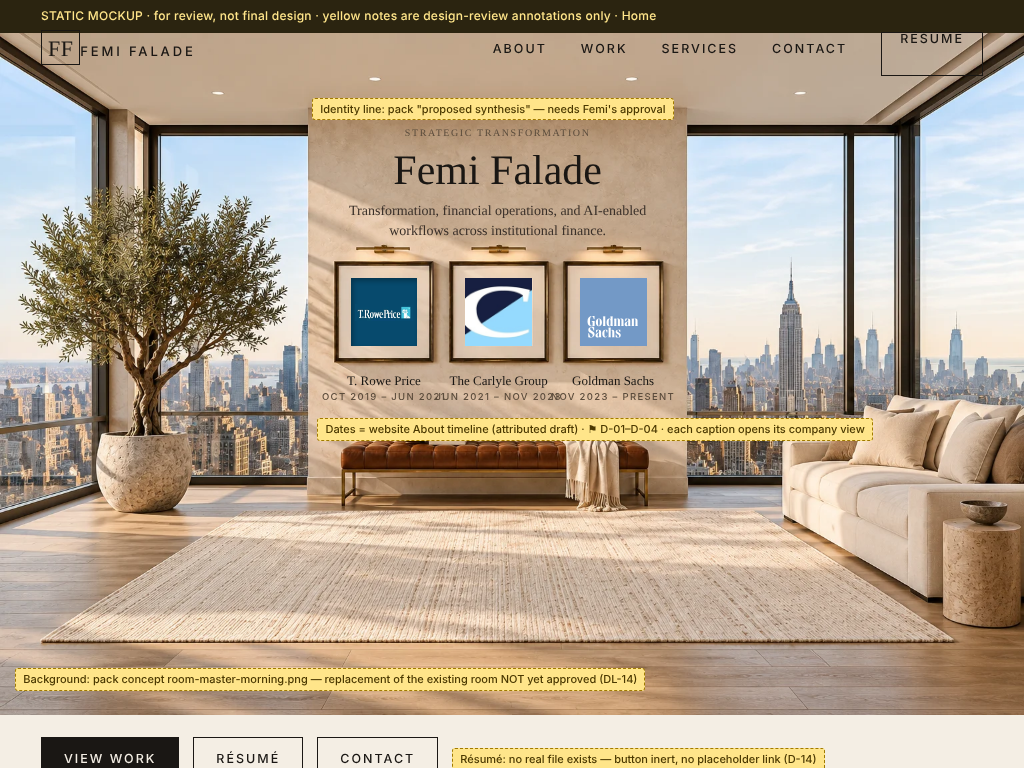
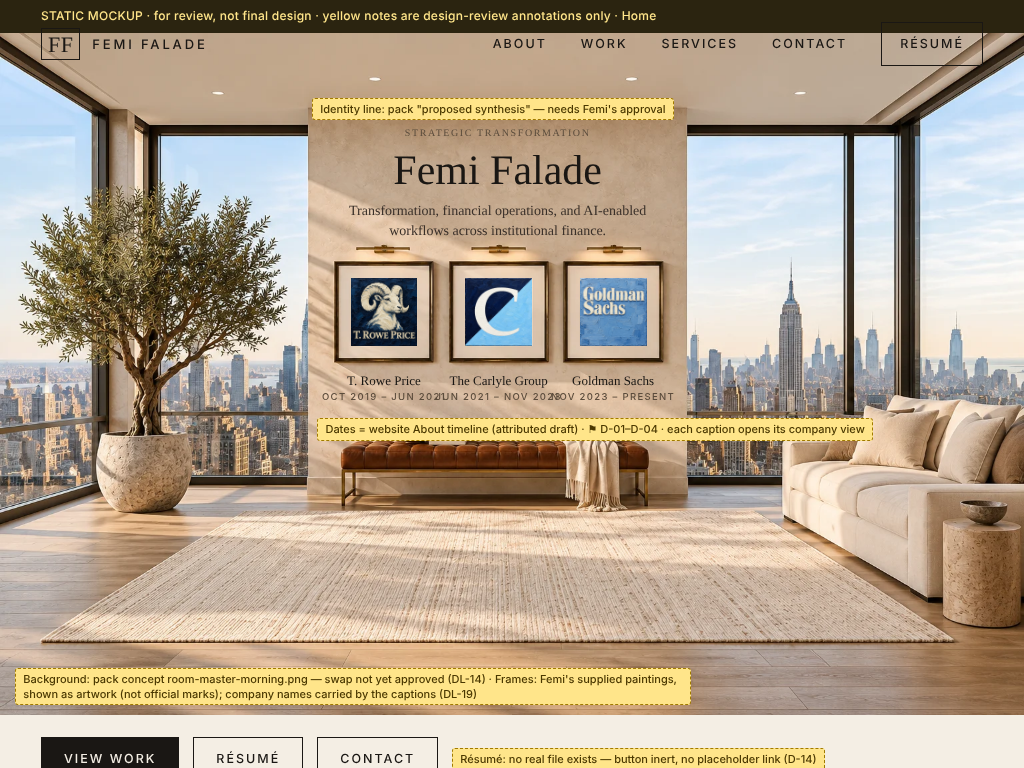
Mockups: supplied paintings in the Home frames; fix nav and overflow
The three paintings Femi supplied now hang in the Home frames as
artwork, with company names and dates in the HTML captions. An
official-marks comparison page is kept. Also fixes a nav regression
(brand and Résumé button lost their flex layout) and a 1024px
horizontal scroll caused by an unwrapped review pin. Re-checked all
pages at 390/1024/1440: no overflow, no broken images, standalone
targets at least 44px.

Claude-Session: https://claude.ai/code/session_01Q2iX8U4MkKUcYxVfpZrcab

diff --git a/docs/mockups/home.html b/docs/mockups/home.html
@@ -9,10 +9,10 @@
 </header>
 <main>
   <section class="home-desktop" aria-label="Gallery room">
-    <div style="position:relative"><div class="scene"><img class="room" src="img/room-master-morning.webp" alt="A quiet gallery room in New York: three framed company artworks on a limestone wall above a leather bench, an olive tree and a sofa by floor-to-ceiling windows."><div class="mat mat--trowe" style="left:34.245%;top:35.938%;width:6.445%;height:9.961%"><img src="img/trowe.webp" alt=""></div><div class="mat mat--carlyle" style="left:45.443%;top:35.938%;width:6.510%;height:9.961%"><img src="img/carlyle.webp" alt=""></div><div class="mat mat--gs" style="left:56.641%;top:35.938%;width:6.510%;height:9.961%"><img src="img/gs.svg" alt=""></div><div class="walltext"><p class="eyebrow">Strategic Transformation</p><h1>Femi Falade</h1><p>Transformation, financial operations, and AI-enabled workflows across institutional finance.</p></div><a class="caption" href="company-goldman-sachs.html" style="left:30.990%"><b>T. Rowe Price</b><span>Oct 2019 – Jun 2021</span></a><a class="caption" href="company-goldman-sachs.html" style="left:42.188%"><b>The Carlyle Group</b><span>Jun 2021 – Nov 2023</span></a><a class="caption" href="company-goldman-sachs.html" style="left:53.353%"><b>Goldman Sachs</b><span>Nov 2023 – Present</span></a></div>
+    <div style="position:relative"><div class="scene"><img class="room" src="img/room-master-morning.webp" alt="A quiet gallery room in New York: three framed company artworks on a limestone wall above a leather bench, an olive tree and a sofa by floor-to-ceiling windows."><div class="mat mat--art" style="left:34.245%;top:35.938%;width:6.445%;height:9.961%"><img src="img/trowe-painting.webp" alt=""></div><div class="mat mat--art" style="left:45.443%;top:35.938%;width:6.510%;height:9.961%"><img src="img/carlyle-painting.webp" alt=""></div><div class="mat mat--art" style="left:56.641%;top:35.938%;width:6.510%;height:9.961%"><img src="img/gs-painting.webp" alt=""></div><div class="walltext"><p class="eyebrow">Strategic Transformation</p><h1>Femi Falade</h1><p>Transformation, financial operations, and AI-enabled workflows across institutional finance.</p></div><a class="caption" href="company-goldman-sachs.html" style="left:30.990%"><b>T. Rowe Price</b><span>Oct 2019 – Jun 2021</span></a><a class="caption" href="company-goldman-sachs.html" style="left:42.188%"><b>The Carlyle Group</b><span>Jun 2021 – Nov 2023</span></a><a class="caption" href="company-goldman-sachs.html" style="left:53.353%"><b>Goldman Sachs</b><span>Nov 2023 – Present</span></a></div>
       <span class="rv rv--pin" style="left:30.5%;top:9.5%">Identity line: pack "proposed synthesis" — needs Femi's approval</span>
       <span class="rv rv--pin" style="left:31%;top:56.4%">Dates = website About timeline (attributed draft) · ⚑ D-01–D-04 · each caption opens its company view</span>
-      <span class="rv rv--pin" style="left:1.5%;top:93%">Background: pack concept room-master-morning.png — replacement of the existing room NOT yet approved (DL-14)</span>
+      <span class="rv rv--pin" style="left:1.5%;top:93%">Background: pack concept room-master-morning.png — swap not yet approved (DL-14) · Frames: Femi's supplied paintings, shown as artwork (not official marks); company names carried by the captions (DL-19)</span>
     </div>
     <div class="wrap" style="display:flex;gap:14px;flex-wrap:wrap;align-items:center;padding-top:22px;padding-bottom:6px">
       <a class="btn btn--solid" href="work.html">View work</a><a class="btn" aria-disabled="true" role="link" tabindex="0">Résumé</a><a class="btn" href="contact.html">Contact</a>
@@ -20,14 +20,14 @@
     </div>
   </section>
   <section class="home-mobile" aria-label="Gallery room (mobile)">
-    <div class="crop"><div class="scene"><img class="room" src="img/room-master-morning.webp" alt="A quiet gallery room in New York: three framed company artworks on a limestone wall above a leather bench, an olive tree and a sofa by floor-to-ceiling windows."><div class="mat mat--trowe" style="left:34.245%;top:35.938%;width:6.445%;height:9.961%"><img src="img/trowe.webp" alt=""></div><div class="mat mat--carlyle" style="left:45.443%;top:35.938%;width:6.510%;height:9.961%"><img src="img/carlyle.webp" alt=""></div><div class="mat mat--gs" style="left:56.641%;top:35.938%;width:6.510%;height:9.961%"><img src="img/gs.svg" alt=""></div></div></div>
+    <div class="crop"><div class="scene"><img class="room" src="img/room-master-morning.webp" alt="A quiet gallery room in New York: three framed company artworks on a limestone wall above a leather bench, an olive tree and a sofa by floor-to-ceiling windows."><div class="mat mat--art" style="left:34.245%;top:35.938%;width:6.445%;height:9.961%"><img src="img/trowe-painting.webp" alt=""></div><div class="mat mat--art" style="left:45.443%;top:35.938%;width:6.510%;height:9.961%"><img src="img/carlyle-painting.webp" alt=""></div><div class="mat mat--art" style="left:56.641%;top:35.938%;width:6.510%;height:9.961%"><img src="img/gs-painting.webp" alt=""></div></div></div>
     <div class="wrap" style="padding-top:26px">
       <p class="eyebrow">Strategic Transformation</p>
       <h1 class="display" style="font-size:44px">Femi Falade</h1>
       <p class="lede" style="font-size:19px;margin:12px 0 4px">Transformation, financial operations, and AI-enabled workflows across institutional finance.</p>
       <span class="rv">Identity line: proposed synthesis — needs approval</span>
       <ul style="list-style:none;margin:24px 0 0;padding:0;border-top:1px solid var(--line)">
-        <li style="border-bottom:1px solid var(--line)"><a href="company-goldman-sachs.html" style="display:flex;gap:14px;align-items:center;padding:14px 0;text-decoration:none"><span class="logo-chip logo-chip--trowe"><img src="img/trowe.webp" alt=""></span><span style="flex:1"><b style="display:block;font:500 20px/1.2 var(--serif)">T. Rowe Price</b><span class="eyebrow" style="margin:4px 0 0;display:block">Oct 2019 – Jun 2021</span></span><span aria-hidden="true">→</span></a></li><li style="border-bottom:1px solid var(--line)"><a href="company-goldman-sachs.html" style="display:flex;gap:14px;align-items:center;padding:14px 0;text-decoration:none"><span class="logo-chip logo-chip--carlyle"><img src="img/carlyle.webp" alt=""></span><span style="flex:1"><b style="display:block;font:500 20px/1.2 var(--serif)">The Carlyle Group</b><span class="eyebrow" style="margin:4px 0 0;display:block">Jun 2021 – Nov 2023</span></span><span aria-hidden="true">→</span></a></li><li style="border-bottom:1px solid var(--line)"><a href="company-goldman-sachs.html" style="display:flex;gap:14px;align-items:center;padding:14px 0;text-decoration:none"><span class="logo-chip logo-chip--gs"><img src="img/gs.svg" alt=""></span><span style="flex:1"><b style="display:block;font:500 20px/1.2 var(--serif)">Goldman Sachs</b><span class="eyebrow" style="margin:4px 0 0;display:block">Nov 2023 – Present</span></span><span aria-hidden="true">→</span></a></li>
+        <li style="border-bottom:1px solid var(--line)"><a href="company-goldman-sachs.html" style="display:flex;gap:14px;align-items:center;padding:14px 0;text-decoration:none"><span class="logo-chip"><img src="img/trowe-painting.webp" alt=""></span><span style="flex:1"><b style="display:block;font:500 20px/1.2 var(--serif)">T. Rowe Price</b><span class="eyebrow" style="margin:4px 0 0;display:block">Oct 2019 – Jun 2021</span></span><span aria-hidden="true">→</span></a></li><li style="border-bottom:1px solid var(--line)"><a href="company-goldman-sachs.html" style="display:flex;gap:14px;align-items:center;padding:14px 0;text-decoration:none"><span class="logo-chip"><img src="img/carlyle-painting.webp" alt=""></span><span style="flex:1"><b style="display:block;font:500 20px/1.2 var(--serif)">The Carlyle Group</b><span class="eyebrow" style="margin:4px 0 0;display:block">Jun 2021 – Nov 2023</span></span><span aria-hidden="true">→</span></a></li><li style="border-bottom:1px solid var(--line)"><a href="company-goldman-sachs.html" style="display:flex;gap:14px;align-items:center;padding:14px 0;text-decoration:none"><span class="logo-chip"><img src="img/gs-painting.webp" alt=""></span><span style="flex:1"><b style="display:block;font:500 20px/1.2 var(--serif)">Goldman Sachs</b><span class="eyebrow" style="margin:4px 0 0;display:block">Nov 2023 – Present</span></span><span aria-hidden="true">→</span></a></li>
       </ul>
       <div style="display:grid;gap:10px;margin-top:22px"><a class="btn btn--solid" href="work.html" style="justify-content:center">View work</a><a class="btn" aria-disabled="true" role="link" tabindex="0" style="justify-content:center">Résumé</a><a class="btn" href="contact.html" style="justify-content:center">Contact</a></div>
       <span class="rv rv--block">Résumé inert until the real PDF is supplied (D-14)</span>

diff --git a/docs/mockups/home-existing-room.html b/docs/mockups/home-existing-room.html
@@ -9,7 +9,7 @@
 </header>
 <main>
   <section class="home-desktop" aria-label="Gallery room">
-    <div style="position:relative"><div class="scene"><img class="room" src="img/room-existing-morning.webp" alt="A quiet gallery room in New York: three framed company artworks on a limestone wall above a leather bench, an olive tree and a sofa by floor-to-ceiling windows."><div class="mat mat--trowe" style="left:34.245%;top:35.938%;width:6.445%;height:9.961%"><img src="img/trowe.webp" alt=""></div><div class="mat mat--carlyle" style="left:45.443%;top:35.938%;width:6.510%;height:9.961%"><img src="img/carlyle.webp" alt=""></div><div class="mat mat--gs" style="left:56.641%;top:35.938%;width:6.510%;height:9.961%"><img src="img/gs.svg" alt=""></div><div class="walltext"><p class="eyebrow">Strategic Transformation</p><h1>Femi Falade</h1><p>Transformation, financial operations, and AI-enabled workflows across institutional finance.</p></div><a class="caption" href="company-goldman-sachs.html" style="left:30.990%"><b>T. Rowe Price</b><span>Oct 2019 – Jun 2021</span></a><a class="caption" href="company-goldman-sachs.html" style="left:42.188%"><b>The Carlyle Group</b><span>Jun 2021 – Nov 2023</span></a><a class="caption" href="company-goldman-sachs.html" style="left:53.353%"><b>Goldman Sachs</b><span>Nov 2023 – Present</span></a></div>
+    <div style="position:relative"><div class="scene"><img class="room" src="img/room-existing-morning.webp" alt="A quiet gallery room in New York: three framed company artworks on a limestone wall above a leather bench, an olive tree and a sofa by floor-to-ceiling windows."><div class="mat mat--art" style="left:34.245%;top:35.938%;width:6.445%;height:9.961%"><img src="img/trowe-painting.webp" alt=""></div><div class="mat mat--art" style="left:45.443%;top:35.938%;width:6.510%;height:9.961%"><img src="img/carlyle-painting.webp" alt=""></div><div class="mat mat--art" style="left:56.641%;top:35.938%;width:6.510%;height:9.961%"><img src="img/gs-painting.webp" alt=""></div><div class="walltext"><p class="eyebrow">Strategic Transformation</p><h1>Femi Falade</h1><p>Transformation, financial operations, and AI-enabled workflows across institutional finance.</p></div><a class="caption" href="company-goldman-sachs.html" style="left:30.990%"><b>T. Rowe Price</b><span>Oct 2019 – Jun 2021</span></a><a class="caption" href="company-goldman-sachs.html" style="left:42.188%"><b>The Carlyle Group</b><span>Jun 2021 – Nov 2023</span></a><a class="caption" href="company-goldman-sachs.html" style="left:53.353%"><b>Goldman Sachs</b><span>Nov 2023 – Present</span></a></div>
       <span class="rv rv--pin" style="left:30.5%;top:9.5%">Identity line: pack "proposed synthesis" — needs Femi's approval</span>
       <span class="rv rv--pin" style="left:31%;top:56.4%">Dates = website About timeline (attributed draft) · ⚑ D-01–D-04 · each caption opens its company view</span>
       <span class="rv rv--pin" style="left:1.5%;top:93%">Comparison: existing room (public/room/v4/morning.webp) — rug and sofa are cropped in this image</span>
@@ -20,14 +20,14 @@
     </div>
   </section>
   <section class="home-mobile" aria-label="Gallery room (mobile)">
-    <div class="crop"><div class="scene"><img class="room" src="img/room-existing-morning.webp" alt="A quiet gallery room in New York: three framed company artworks on a limestone wall above a leather bench, an olive tree and a sofa by floor-to-ceiling windows."><div class="mat mat--trowe" style="left:34.245%;top:35.938%;width:6.445%;height:9.961%"><img src="img/trowe.webp" alt=""></div><div class="mat mat--carlyle" style="left:45.443%;top:35.938%;width:6.510%;height:9.961%"><img src="img/carlyle.webp" alt=""></div><div class="mat mat--gs" style="left:56.641%;top:35.938%;width:6.510%;height:9.961%"><img src="img/gs.svg" alt=""></div></div></div>
+    <div class="crop"><div class="scene"><img class="room" src="img/room-existing-morning.webp" alt="A quiet gallery room in New York: three framed company artworks on a limestone wall above a leather bench, an olive tree and a sofa by floor-to-ceiling windows."><div class="mat mat--art" style="left:34.245%;top:35.938%;width:6.445%;height:9.961%"><img src="img/trowe-painting.webp" alt=""></div><div class="mat mat--art" style="left:45.443%;top:35.938%;width:6.510%;height:9.961%"><img src="img/carlyle-painting.webp" alt=""></div><div class="mat mat--art" style="left:56.641%;top:35.938%;width:6.510%;height:9.961%"><img src="img/gs-painting.webp" alt=""></div></div></div>
     <div class="wrap" style="padding-top:26px">
       <p class="eyebrow">Strategic Transformation</p>
       <h1 class="display" style="font-size:44px">Femi Falade</h1>
       <p class="lede" style="font-size:19px;margin:12px 0 4px">Transformation, financial operations, and AI-enabled workflows across institutional finance.</p>
       <span class="rv">Identity line: proposed synthesis — needs approval</span>
       <ul style="list-style:none;margin:24px 0 0;padding:0;border-top:1px solid var(--line)">
-        <li style="border-bottom:1px solid var(--line)"><a href="company-goldman-sachs.html" style="display:flex;gap:14px;align-items:center;padding:14px 0;text-decoration:none"><span class="logo-chip logo-chip--trowe"><img src="img/trowe.webp" alt=""></span><span style="flex:1"><b style="display:block;font:500 20px/1.2 var(--serif)">T. Rowe Price</b><span class="eyebrow" style="margin:4px 0 0;display:block">Oct 2019 – Jun 2021</span></span><span aria-hidden="true">→</span></a></li><li style="border-bottom:1px solid var(--line)"><a href="company-goldman-sachs.html" style="display:flex;gap:14px;align-items:center;padding:14px 0;text-decoration:none"><span class="logo-chip logo-chip--carlyle"><img src="img/carlyle.webp" alt=""></span><span style="flex:1"><b style="display:block;font:500 20px/1.2 var(--serif)">The Carlyle Group</b><span class="eyebrow" style="margin:4px 0 0;display:block">Jun 2021 – Nov 2023</span></span><span aria-hidden="true">→</span></a></li><li style="border-bottom:1px solid var(--line)"><a href="company-goldman-sachs.html" style="display:flex;gap:14px;align-items:center;padding:14px 0;text-decoration:none"><span class="logo-chip logo-chip--gs"><img src="img/gs.svg" alt=""></span><span style="flex:1"><b style="display:block;font:500 20px/1.2 var(--serif)">Goldman Sachs</b><span class="eyebrow" style="margin:4px 0 0;display:block">Nov 2023 – Present</span></span><span aria-hidden="true">→</span></a></li>
+        <li style="border-bottom:1px solid var(--line)"><a href="company-goldman-sachs.html" style="display:flex;gap:14px;align-items:center;padding:14px 0;text-decoration:none"><span class="logo-chip"><img src="img/trowe-painting.webp" alt=""></span><span style="flex:1"><b style="display:block;font:500 20px/1.2 var(--serif)">T. Rowe Price</b><span class="eyebrow" style="margin:4px 0 0;display:block">Oct 2019 – Jun 2021</span></span><span aria-hidden="true">→</span></a></li><li style="border-bottom:1px solid var(--line)"><a href="company-goldman-sachs.html" style="display:flex;gap:14px;align-items:center;padding:14px 0;text-decoration:none"><span class="logo-chip"><img src="img/carlyle-painting.webp" alt=""></span><span style="flex:1"><b style="display:block;font:500 20px/1.2 var(--serif)">The Carlyle Group</b><span class="eyebrow" style="margin:4px 0 0;display:block">Jun 2021 – Nov 2023</span></span><span aria-hidden="true">→</span></a></li><li style="border-bottom:1px solid var(--line)"><a href="company-goldman-sachs.html" style="display:flex;gap:14px;align-items:center;padding:14px 0;text-decoration:none"><span class="logo-chip"><img src="img/gs-painting.webp" alt=""></span><span style="flex:1"><b style="display:block;font:500 20px/1.2 var(--serif)">Goldman Sachs</b><span class="eyebrow" style="margin:4px 0 0;display:block">Nov 2023 – Present</span></span><span aria-hidden="true">→</span></a></li>
       </ul>
       <div style="display:grid;gap:10px;margin-top:22px"><a class="btn btn--solid" href="work.html" style="justify-content:center">View work</a><a class="btn" aria-disabled="true" role="link" tabindex="0" style="justify-content:center">Résumé</a><a class="btn" href="contact.html" style="justify-content:center">Contact</a></div>
       <span class="rv rv--block">Résumé inert until the real PDF is supplied (D-14)</span>

diff --git a/docs/mockups/home-official-marks.html b/docs/mockups/home-official-marks.html
@@ -1,0 +1,43 @@
+<!doctype html><html lang="en"><head><meta charset="utf-8"><meta name="viewport" content="width=device-width,initial-scale=1">
+<title>Home — Femi Falade (static mockup)</title><link rel="stylesheet" href="mock.css"></head>
+<body>
+<div class="reviewbar">STATIC MOCKUP · for review, not final design · yellow notes are design-review annotations only · Home</div>
+<header class="nav nav--over">
+  <a class="brand" href="home.html" aria-label="Femi Falade — home"><span class="brand__mono" aria-hidden="true">FF</span><span class="brand__name">Femi Falade</span></a>
+  <nav aria-label="Primary"><ul><li><a href="about.html">About</a></li><li><a href="work.html">Work</a></li><li><a href="services.html">Services</a></li><li><a href="contact.html">Contact</a></li><li><a class="btn" aria-disabled="true" role="link" tabindex="0">Résumé</a></li></ul></nav>
+  <button class="menu-btn" aria-label="Open menu" aria-expanded="false"><svg width="18" height="12" viewBox="0 0 18 12" aria-hidden="true"><path d="M0 1h18M0 6h18M0 11h18" stroke="currentColor"/></svg></button>
+</header>
+<main>
+  <section class="home-desktop" aria-label="Gallery room">
+    <div style="position:relative"><div class="scene"><img class="room" src="img/room-master-morning.webp" alt="A quiet gallery room in New York: three framed company artworks on a limestone wall above a leather bench, an olive tree and a sofa by floor-to-ceiling windows."><div class="mat mat--trowe" style="left:34.245%;top:35.938%;width:6.445%;height:9.961%"><img src="img/trowe.webp" alt=""></div><div class="mat mat--carlyle" style="left:45.443%;top:35.938%;width:6.510%;height:9.961%"><img src="img/carlyle.webp" alt=""></div><div class="mat mat--gs" style="left:56.641%;top:35.938%;width:6.510%;height:9.961%"><img src="img/gs.svg" alt=""></div><div class="walltext"><p class="eyebrow">Strategic Transformation</p><h1>Femi Falade</h1><p>Transformation, financial operations, and AI-enabled workflows across institutional finance.</p></div><a class="caption" href="company-goldman-sachs.html" style="left:30.990%"><b>T. Rowe Price</b><span>Oct 2019 – Jun 2021</span></a><a class="caption" href="company-goldman-sachs.html" style="left:42.188%"><b>The Carlyle Group</b><span>Jun 2021 – Nov 2023</span></a><a class="caption" href="company-goldman-sachs.html" style="left:53.353%"><b>Goldman Sachs</b><span>Nov 2023 – Present</span></a></div>
+      <span class="rv rv--pin" style="left:30.5%;top:9.5%">Identity line: pack "proposed synthesis" — needs Femi's approval</span>
+      <span class="rv rv--pin" style="left:31%;top:56.4%">Dates = website About timeline (attributed draft) · ⚑ D-01–D-04 · each caption opens its company view</span>
+      <span class="rv rv--pin" style="left:1.5%;top:93%">Comparison: official company marks in the frames instead of the paintings</span>
+    </div>
+    <div class="wrap" style="display:flex;gap:14px;flex-wrap:wrap;align-items:center;padding-top:22px;padding-bottom:6px">
+      <a class="btn btn--solid" href="work.html">View work</a><a class="btn" aria-disabled="true" role="link" tabindex="0">Résumé</a><a class="btn" href="contact.html">Contact</a>
+      <span class="rv">Résumé: no real file exists — button inert, no placeholder link (D-14)</span>
+    </div>
+  </section>
+  <section class="home-mobile" aria-label="Gallery room (mobile)">
+    <div class="crop"><div class="scene"><img class="room" src="img/room-master-morning.webp" alt="A quiet gallery room in New York: three framed company artworks on a limestone wall above a leather bench, an olive tree and a sofa by floor-to-ceiling windows."><div class="mat mat--trowe" style="left:34.245%;top:35.938%;width:6.445%;height:9.961%"><img src="img/trowe.webp" alt=""></div><div class="mat mat--carlyle" style="left:45.443%;top:35.938%;width:6.510%;height:9.961%"><img src="img/carlyle.webp" alt=""></div><div class="mat mat--gs" style="left:56.641%;top:35.938%;width:6.510%;height:9.961%"><img src="img/gs.svg" alt=""></div></div></div>
+    <div class="wrap" style="padding-top:26px">
+      <p class="eyebrow">Strategic Transformation</p>
+      <h1 class="display" style="font-size:44px">Femi Falade</h1>
+      <p class="lede" style="font-size:19px;margin:12px 0 4px">Transformation, financial operations, and AI-enabled workflows across institutional finance.</p>
+      <span class="rv">Identity line: proposed synthesis — needs approval</span>
+      <ul style="list-style:none;margin:24px 0 0;padding:0;border-top:1px solid var(--line)">
+        <li style="border-bottom:1px solid var(--line)"><a href="company-goldman-sachs.html" style="display:flex;gap:14px;align-items:center;padding:14px 0;text-decoration:none"><span class="logo-chip logo-chip--trowe"><img src="img/trowe.webp" alt=""></span><span style="flex:1"><b style="display:block;font:500 20px/1.2 var(--serif)">T. Rowe Price</b><span class="eyebrow" style="margin:4px 0 0;display:block">Oct 2019 – Jun 2021</span></span><span aria-hidden="true">→</span></a></li><li style="border-bottom:1px solid var(--line)"><a href="company-goldman-sachs.html" style="display:flex;gap:14px;align-items:center;padding:14px 0;text-decoration:none"><span class="logo-chip logo-chip--carlyle"><img src="img/carlyle.webp" alt=""></span><span style="flex:1"><b style="display:block;font:500 20px/1.2 var(--serif)">The Carlyle Group</b><span class="eyebrow" style="margin:4px 0 0;display:block">Jun 2021 – Nov 2023</span></span><span aria-hidden="true">→</span></a></li><li style="border-bottom:1px solid var(--line)"><a href="company-goldman-sachs.html" style="display:flex;gap:14px;align-items:center;padding:14px 0;text-decoration:none"><span class="logo-chip logo-chip--gs"><img src="img/gs.svg" alt=""></span><span style="flex:1"><b style="display:block;font:500 20px/1.2 var(--serif)">Goldman Sachs</b><span class="eyebrow" style="margin:4px 0 0;display:block">Nov 2023 – Present</span></span><span aria-hidden="true">→</span></a></li>
+      </ul>
+      <div style="display:grid;gap:10px;margin-top:22px"><a class="btn btn--solid" href="work.html" style="justify-content:center">View work</a><a class="btn" aria-disabled="true" role="link" tabindex="0" style="justify-content:center">Résumé</a><a class="btn" href="contact.html" style="justify-content:center">Contact</a></div>
+      <span class="rv rv--block">Résumé inert until the real PDF is supplied (D-14)</span>
+    </div>
+  </section>
+</main>
+<style>.home-mobile{display:none} @media(max-width:760px){.home-desktop{display:none}.home-mobile{display:block}.nav--over{position:relative;background:var(--paper)}}</style>
+<footer class="footer"><div class="wrap">
+  <div><h4>Location</h4><p style="margin:0 0 6px;font:500 20px/1.3 var(--serif)">Femi Falade</p><p class="muted" style="margin:0 0 10px">New York, NY</p><a href="mailto:femi@femifalade.com">femi@femifalade.com</a></div>
+  <div><h4>Navigate</h4><a href="home.html">Home</a><a href="about.html">About</a><a href="work.html">Work</a><a href="services.html">Services</a><a href="contact.html">Contact</a></div>
+  <div><h4>Connect</h4><a href="https://www.linkedin.com/in/femi-falade">LinkedIn</a><a href="https://calendly.com/femijfalade/femi">Calendly</a><a href="mailto:femi@femifalade.com">Email</a><a aria-disabled="true" role="link" tabindex="0">Résumé <span class="rv">PDF not supplied — D-14</span></a></div>
+</div></footer>
+</body></html>

diff --git a/docs/mockups/mock.css b/docs/mockups/mock.css
@@ -40,7 +40,8 @@ img { display: block; max-width: 100%; }
 .nav a { text-decoration: none; font: 500 12.5px/1 var(--sans); letter-spacing: .16em; text-transform: uppercase; padding: 16px 0; display: inline-block; }
 .nav a[aria-current] { border-bottom: 1px solid currentColor; }
 .btn { display: inline-flex; align-items: center; gap: 10px; min-height: 44px; padding: 0 22px; border: 1px solid currentColor; font: 500 12.5px/1 var(--sans); letter-spacing: .16em; text-transform: uppercase; text-decoration: none; background: transparent; color: inherit; }
-.nav .btn { padding: 0 18px; }
+.nav .btn { display: inline-flex; padding: 0 18px; }
+.nav .brand { display: flex; padding: 0; min-height: 44px; }
 .btn--solid { background: var(--ink); color: var(--paper); border-color: var(--ink); }
 .btn[aria-disabled] { cursor: not-allowed; }
 .menu-btn { display: none; }
@@ -60,6 +61,8 @@ img { display: block; max-width: 100%; }
 .mat--trowe img { width: 88%; height: auto; }
 .mat--carlyle img { object-fit: cover; object-position: 50% 50%; }
 .mat--gs img { object-fit: cover; }
+.mat--art img { object-fit: cover; }
+.mat--art { box-shadow: inset 1px 2px 4px rgba(0,0,0,.35), inset 0 0 0 1px rgba(0,0,0,.12); }
 .walltext { position: absolute; left: 30.1%; width: 37%; top: 13.6%; text-align: center; color: var(--ink); }
 .walltext .eyebrow { font-size: max(10px, .78cqw); margin-bottom: .9cqw; color: #5b4c3c; }
 .walltext h1 { font: 400 4.1cqw/1 var(--display); margin: 0 0 .9cqw; }
@@ -93,7 +96,7 @@ img { display: block; max-width: 100%; }
 /* ── design-review layer (yellow). Not part of the design. */
 .rv { font: 500 11px/1.35 var(--sans); letter-spacing: 0; text-transform: none; color: #4a3800; background: #FFE58A; border: 1px dashed #A07A00; padding: 3px 7px; border-radius: 3px; display: inline-block; vertical-align: middle; }
 .rv--block { display: block; margin: 10px 0; padding: 10px 12px; font-size: 12.5px; }
-.rv--pin { position: absolute; z-index: 6; white-space: nowrap; }
+.rv--pin { position: absolute; z-index: 6; max-width: 66%; }
 .reviewbar { background: #2b2410; color: #FFE58A; font: 500 12px/1.4 var(--sans); padding: 8px var(--gutter); letter-spacing: .02em; }
 .no-review .rv, .no-review .reviewbar { display: none !important; }
 

diff --git a/docs/mockups/index.html b/docs/mockups/index.html
@@ -6,7 +6,7 @@
 <figure class="d"><a href="screens/home-1440x900-firstscreen.png"><img src="screens/home-1440x900-firstscreen.png" alt="Home mockup, 1440×900 first screen" loading="lazy"></a><figcaption>1440×900 first screen</figcaption></figure>
 <figure class="d"><a href="screens/home-1440x900.png"><img src="screens/home-1440x900.png" alt="Home mockup, 1440×900 full page" loading="lazy"></a><figcaption>1440×900 full page</figcaption></figure>
 <figure class="d"><a href="screens/home-1024x768-firstscreen.png"><img src="screens/home-1024x768-firstscreen.png" alt="Home mockup, 1024×768 first screen" loading="lazy"></a><figcaption>1024×768 first screen</figcaption></figure>
-<figure class="d"><a href="screens/home-existing-room-1440x900-firstscreen.png"><img src="screens/home-existing-room-1440x900-firstscreen.png" alt="Home mockup, Comparison: existing room, 1440×900" loading="lazy"></a><figcaption>Comparison: existing room, 1440×900</figcaption></figure>
+<figure class="d"><a href="screens/home-official-marks-1440x900-firstscreen.png"><img src="screens/home-official-marks-1440x900-firstscreen.png" alt="Home mockup with official marks" loading="lazy"></a><figcaption>Comparison: official marks in the frames</figcaption></figure><figure class="d"><a href="screens/home-existing-room-1440x900-firstscreen.png"><img src="screens/home-existing-room-1440x900-firstscreen.png" alt="Home mockup, Comparison: existing room, 1440×900" loading="lazy"></a><figcaption>Comparison: existing room, 1440×900</figcaption></figure>
 <figure class="m"><a href="screens/home-390x844.png"><img src="screens/home-390x844.png" alt="Home mockup, 390×844 full page" loading="lazy"></a><figcaption>390×844 full page</figcaption></figure>
 </div>
 <h2>Work — <a href="work.html">open work.html</a></h2><div class="row">

diff --git a/docs/mockups/_build.py b/docs/mockups/_build.py
@@ -42,9 +42,9 @@ def page(name, title, body, current=''):
 
 # ── shared bits
 COMPANIES = [  # website dates/titles (about page timeline), attributed draft
-    dict(id='trowe', name='T. Rowe Price', dates='Oct 2019 – Jun 2021', flag='D-02 · D-04', role='Analyst, Central Operations', x=(502, 650), mat=(526, 368, 625, 470), logo='trowe.webp'),
-    dict(id='carlyle', name='The Carlyle Group', dates='Jun 2021 – Nov 2023', flag='D-01 · D-03', role='Associate, EMEA Fund Operations', x=(674, 822), mat=(698, 368, 798, 470), logo='carlyle.webp'),
-    dict(id='gs', name='Goldman Sachs', dates='Nov 2023 – Present', flag='D-13', role='Senior Associate, Global Banking and Markets Transformation', x=(845, 994), mat=(870, 368, 970, 470), logo='gs.svg'),
+    dict(id='trowe', name='T. Rowe Price', dates='Oct 2019 – Jun 2021', flag='D-02 · D-04', role='Analyst, Central Operations', x=(502, 650), mat=(526, 368, 625, 470), logo='trowe.webp', art='trowe-painting.webp'),
+    dict(id='carlyle', name='The Carlyle Group', dates='Jun 2021 – Nov 2023', flag='D-01 · D-03', role='Associate, EMEA Fund Operations', x=(674, 822), mat=(698, 368, 798, 470), logo='carlyle.webp', art='carlyle-painting.webp'),
+    dict(id='gs', name='Goldman Sachs', dates='Nov 2023 – Present', flag='D-13', role='Senior Associate, Global Banking and Markets Transformation', x=(845, 994), mat=(870, 368, 970, 470), logo='gs.svg', art='gs-painting.webp'),
 ]
 W, H = 1536, 1024
 pct = lambda v, d: f'{v / d * 100:.3f}%'
@@ -59,10 +59,14 @@ def logo_chip(c):
     return f'<span class="logo-chip logo-chip--{c["id"]}"><img src="img/{c["logo"]}" alt=""></span>'
 
 
-def scene(room='room-master-morning.webp', wall=True):
+def art_chip(c):
+    return f'<span class="logo-chip"><img src="img/{c["art"]}" alt=""></span>'
+
+
+def scene(room='room-master-morning.webp', wall=True, art=True):
     mats = ''.join(
-        f'<div class="mat mat--{c["id"]}" style="left:{pct(c["mat"][0], W)};top:{pct(c["mat"][1], H)};width:{pct(c["mat"][2] - c["mat"][0], W)};height:{pct(c["mat"][3] - c["mat"][1], H)}">'
-        f'<img src="img/{c["logo"]}" alt=""></div>' for c in COMPANIES)
+        f'<div class="mat {"mat--art" if art else "mat--" + c["id"]}" style="left:{pct(c["mat"][0], W)};top:{pct(c["mat"][1], H)};width:{pct(c["mat"][2] - c["mat"][0], W)};height:{pct(c["mat"][3] - c["mat"][1], H)}">'
+        f'<img src="img/{c["art"] if art else c["logo"]}" alt=""></div>' for c in COMPANIES)
     caps = ''.join(
         f'<a class="caption" href="company-goldman-sachs.html" style="left:{pct((c["x"][0] + c["x"][1]) / 2 - 100, W)}">'
         f'<b>{c["name"]}</b><span>{c["dates"]}</span></a>' for c in COMPANIES) if wall else ''
@@ -71,11 +75,11 @@ def scene(room='room-master-morning.webp', wall=True):
 
 
 # ── HOME
-def home(room, fname, label):
+def home(room, fname, label, art=True):
     body = f'''{nav(over=True)}
 <main>
   <section class="home-desktop" aria-label="Gallery room">
-    <div style="position:relative">{scene(room)}
+    <div style="position:relative">{scene(room, art=art)}
       <span class="rv rv--pin" style="left:30.5%;top:9.5%">Identity line: pack "proposed synthesis" — needs Femi's approval</span>
       <span class="rv rv--pin" style="left:31%;top:56.4%">Dates = website About timeline (attributed draft) · ⚑ D-01–D-04 · each caption opens its company view</span>
       <span class="rv rv--pin" style="left:1.5%;top:93%">{label}</span>
@@ -86,14 +90,14 @@ def home(room, fname, label):
     </div>
   </section>
   <section class="home-mobile" aria-label="Gallery room (mobile)">
-    <div class="crop">{scene(room, wall=False)}</div>
+    <div class="crop">{scene(room, wall=False, art=art)}</div>
     <div class="wrap" style="padding-top:26px">
       <p class="eyebrow">{IDENTITY["positioning"]}</p>
       <h1 class="display" style="font-size:44px">{IDENTITY["name"]}</h1>
       <p class="lede" style="font-size:19px;margin:12px 0 4px">{IDENTITY["intro"]}</p>
       {rv("Identity line: proposed synthesis — needs approval")}
       <ul style="list-style:none;margin:24px 0 0;padding:0;border-top:1px solid var(--line)">
-        {"".join(f'<li style="border-bottom:1px solid var(--line)"><a href="company-goldman-sachs.html" style="display:flex;gap:14px;align-items:center;padding:14px 0;text-decoration:none">{logo_chip(c)}<span style="flex:1"><b style="display:block;font:500 20px/1.2 var(--serif)">{c["name"]}</b><span class="eyebrow" style="margin:4px 0 0;display:block">{c["dates"]}</span></span><span aria-hidden="true">→</span></a></li>' for c in COMPANIES)}
+        {"".join(f'<li style="border-bottom:1px solid var(--line)"><a href="company-goldman-sachs.html" style="display:flex;gap:14px;align-items:center;padding:14px 0;text-decoration:none">{art_chip(c) if art else logo_chip(c)}<span style="flex:1"><b style="display:block;font:500 20px/1.2 var(--serif)">{c["name"]}</b><span class="eyebrow" style="margin:4px 0 0;display:block">{c["dates"]}</span></span><span aria-hidden="true">→</span></a></li>' for c in COMPANIES)}
       </ul>
       <div style="display:grid;gap:10px;margin-top:22px"><a class="btn btn--solid" href="work.html" style="justify-content:center">View work</a><a class="btn" aria-disabled="true" role="link" tabindex="0" style="justify-content:center">Résumé</a><a class="btn" href="contact.html" style="justify-content:center">Contact</a></div>
       {rv("Résumé inert until the real PDF is supplied (D-14)", True)}
@@ -104,7 +108,9 @@ def home(room, fname, label):
     page(fname, 'Home', body)
 
 
-home('room-master-morning.webp', 'home.html', 'Background: pack concept room-master-morning.png — replacement of the existing room NOT yet approved (DL-14)')
+ART_NOTE = 'Frames: Femi\'s supplied paintings, shown as artwork (not official marks); company names carried by the captions (DL-19)'
+home('room-master-morning.webp', 'home.html', 'Background: pack concept room-master-morning.png — swap not yet approved (DL-14) · ' + ART_NOTE)
+home('room-master-morning.webp', 'home-official-marks.html', 'Comparison: official company marks in the frames instead of the paintings', art=False)
 home('room-existing-morning.webp', 'home-existing-room.html', 'Comparison: existing room (public/room/v4/morning.webp) — rug and sofa are cropped in this image')
 
 

diff --git a/docs/decision-log.md b/docs/decision-log.md
@@ -22,4 +22,6 @@ Newest last. Each entry records the decision, why it was made and what would rev
 | DL-15 | 2026-10-14 | 2 | Work = editorial list grouped by company; the website's filter tabs are dropped | Six items browse without filters; the brief asks for an editorial list | Femi wants filters back |
 | DL-16 | 2026-10-14 | 2 | Services keeps the website tab order but pre-selects **Transformation** (website default: Regulatory) | Central positioning is Strategic Transformation | Femi prefers the website default |
 | DL-17 | 2026-10-14 | 2 | Home action buttons go in the nav and in a strip directly under the room, not on the wall | The bench bowl leaves no clear wall space under the captions; nothing crowds the frames | — |
-| DL-18 | 2026-10-14 | 2 | Five images sent inline mid-stage (three room interiors, painted T. Rowe Price ram canvas, painted Goldman Sachs canvas) are **not used**: they did not arrive as files, and their intended role wasn't stated | Can't place what isn't on disk; the painted canvases are artwork, not official marks | Femi re-sends them as files and says where they go |
+| DL-18 | 2026-10-14 | 2 | *(Superseded in part by DL-19.)* Five images sent inline mid-stage (three room interiors, painted T. Rowe Price ram canvas, painted Goldman Sachs canvas) are **not used**: they did not arrive as files, and their intended role wasn't stated | Can't place what isn't on disk; the painted canvases are artwork, not official marks | Femi re-sends them as files and says where they go |
+| DL-19 | 2026-10-14 | 2 | Femi re-sent the three paintings as files, so **Home frames now show the supplied paintings as artwork**. Company names and dates are carried by the HTML captions, and the official marks stay on Work, company views and other UI. `home-official-marks.html` keeps the official-mark version for comparison. Supersedes DL-06 for Home. | The supplied artworks are Femi's own choice for the frames. They are not generated by Claude and not presented as official logos. | Femi prefers official marks in the frames |
+| DL-20 | 2026-10-14 | 2 | Proposal, not built: the three supplied interiors become inner-page hero images. **Armchair corner (day) → About**, **office with desk → Work / case study / company view**, **credenza at night → Contact**. Services takes the office image or none. | Femi: "for other areas if need be". They arrived inline only, not as files, so they can't be placed yet. | Femi re-sends them as files or assigns them differently |

diff --git a/docs/asset-manifest.md b/docs/asset-manifest.md
@@ -66,5 +66,14 @@ Copied unchanged from `Femi_Falade_Portfolio_Claude_Pack.zip`. Checksums are lis
 | `carlyle.webp`, `trowe.webp`, `gs.svg`, `femi-portrait.webp` | Byte copies of `public/` files |
 | `fonts/*.woff2` | Latin subsets of EB Garamond, Cormorant Garamond and Inter from the site's own Next.js font build |
 
-## Received inline, not on disk (DL-18)
-Three room interiors (armchair corner by day; credenza with lamp at night; office with desk and bookshelf), a painted T. Rowe Price ram canvas and a painted Goldman Sachs canvas. These are not stored in this environment. If used, the painted canvases are **artwork, not official marks**.
+## Supplied paintings (Femi, 14 Oct 2026) — artwork for the Home frames (DL-19)
+| File | Dimensions | sha256 (16) | Status |
+|---|---|---|---|
+| `docs/assets/supplied-art/trowe-painting-supplied.webp` | 1254×1254 | af61a2097d1b51a0 | ⚠ artwork, not an official mark; its lettering differs from the official wordmark |
+| `docs/assets/supplied-art/gs-painting-supplied.webp` | 1254×1254 | f263ec440d867c13 | ⚠ artwork, not an official mark |
+| `docs/assets/supplied-art/carlyle-painting-supplied.jpg` | 1254×1254 | 5cd46e9097556169 | ⚠ artwork; re-sent copy byte-identical (also identical to the pack's `carlyle-supplied-artwork.jpeg`) |
+
+The mockups use 600×600 WebP derivatives of these: `docs/mockups/img/{trowe,gs,carlyle}-painting.webp`.
+
+## Received inline only, not on disk (DL-20)
+Three room interiors: an armchair corner by day, a credenza with lamp at night, and an office with a desk and bookshelf. They are intended for other pages, but they are not stored in this environment and must be re-sent as files.

diff --git a/docs/mockups/content-assignment.md b/docs/mockups/content-assignment.md
@@ -17,7 +17,7 @@ Every string below is website wording, from repo `main` @182768d, which the pack
 | Slot | Content | Source |
 |---|---|---|
 | Background | Desktop: the pack concept `room-master-morning.png`, with rug, tree and sofa all in view. Comparison page: the existing room. | Pack asset (sha256 `cf276d3e…`); replacement **not yet approved** (DL-14) |
-| Frames (L→R) | T. Rowe Price, The Carlyle Group, Goldman Sachs: official marks set into the concept's mat openings | `public/logos/*` (DL-06; GS provenance D-23) |
+| Frames (L→R) | T. Rowe Price, The Carlyle Group, Goldman Sachs: **Femi's supplied paintings**, as artwork. `home-official-marks.html` shows the official marks for comparison. | `docs/assets/supplied-art/*` (DL-19) |
 | Above frames | "Strategic Transformation" / "Femi Falade" / "Transformation, financial operations, and AI-enabled workflows across institutional finance." | Positioning is user-selected (pack). The sentence is the pack's *proposed synthesis* and needs approval. |
 | Captions below frames | Company name + "Oct 2019 – Jun 2021" / "Jun 2021 – Nov 2023" / "Nov 2023 – Present"; each opens its company view | Website About timeline M:about#L10-12 (⚑ D-01–D-04) |
 | Actions | View work · Résumé (inert) · Contact, in the nav and in a strip directly under the room | Brief; website "View work" label M:VideoHero |
